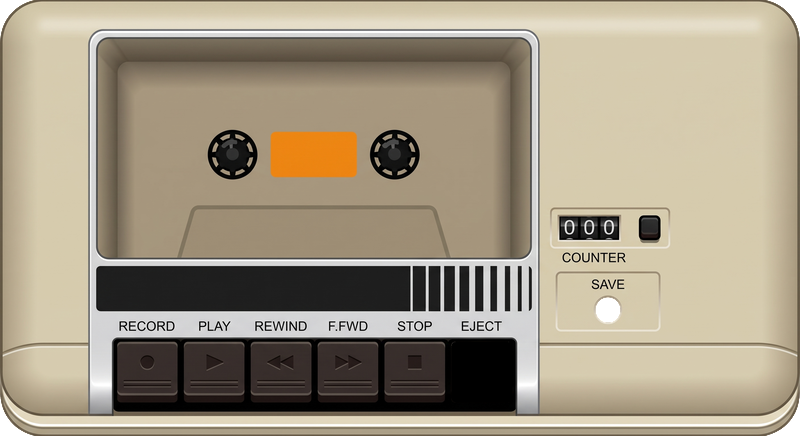
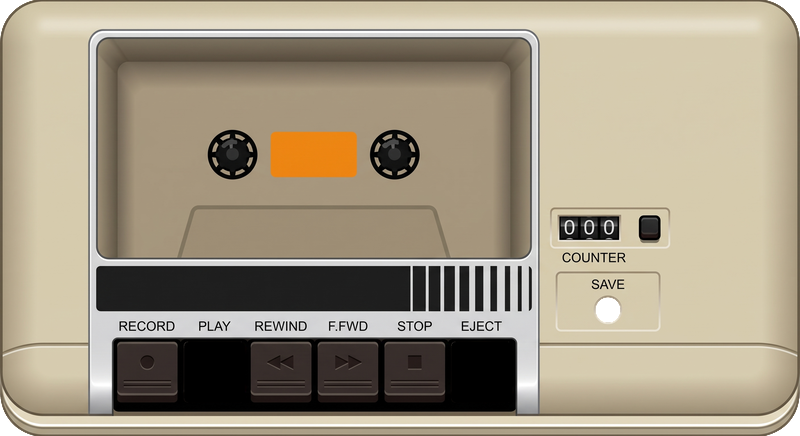
C64 corner Phase 4: the PLAY key goes down before the tape runs
The art's own second keycap (PLAY) is cut out as datasette-play.png and
pressed 240 ms (playLeadMs) before the hubs and counter start; it comes
back up on stop and eject. verify-c64 checks the key's up and down states.

Changed region(s): [[0.2188, 0.7752, 0.3125, 0.9243]]

diff --git a/Game/C64/driveinsert.js b/Game/C64/driveinsert.js
@@ -183,7 +183,8 @@
          the bay, the lid closes, the key comes back up.
        Eject (ends game): the lid lifts, the tape leaves DOWNWARD, the lid closes.
          A disk inserted over a tape plays this first (his rulings, 2026-10-04).
-       While a tape LOAD runs (emu.js says so: cat:tapemotor), the hubs turn
+       While a tape LOAD runs (emu.js says so: cat:tapemotor), PLAY goes down
+         (playLeadMs before anything turns) and stays down; the hubs turn
          (the cassette's white toothed hubs, and the black spindles seen through
          them) and the counter's three wheels count up. It is TIME-BASED: the
          core tells JS nothing about the tape itself (measured 2026-10-04). It
@@ -205,7 +206,9 @@
       reset: [0.79865, 0.49414, 0.82564, 0.55078],
       hingeY: 0.09505
     },
-    timing: { keyMs: 140, lidOpenMs: 420, riseMs: 460, lowerMs: 400, lidCloseMs: 360, gapMs: 90, resetPressMs: 140 },
+    timing: { keyMs: 140, lidOpenMs: 420, riseMs: 460, lowerMs: 400, lidCloseMs: 360, gapMs: 90, resetPressMs: 140,
+              /* 🆕 PLAY goes down this long BEFORE the counter and the hubs start */
+              playLeadMs: 240 },
     keyTravel: 0.014,          /* the EJECT key goes down this much of the box's height */
     lidDeg: 45,
     hubTurnMs: 1600,           /* one turn of the hubs while a load runs */
@@ -247,7 +250,8 @@
     var box = el("datasette"), cass = el("datasette-tape"), label = el("datasette-label");
     var wheels = box ? box.querySelectorAll(".datasette__wheel-strip") : [];
     var LABEL_PX = { max: 13, min: 5 };
-    var st = { busy: false, motor: false, count: 0, trace: [], lid: "closed", key: false, skip: null };
+    var st = { busy: false, motor: false, play: false, count: 0, trace: [], lid: "closed", key: false, skip: null };
+    var playTimer = 0;
     var T = DATASETTE.timing;
     var wait = function (msv) {
       return new Promise(function (res) {
@@ -374,13 +378,24 @@
       paintCounter();
       raf = requestAnimationFrame(tick);
     }
+    /* 🆕 PLAY: down first, then (playLeadMs later) the hubs and the counter; up
+       again the moment the load stops, or when Eject lifts the lid */
+    function playKey(on) { st.play = on; box.classList.toggle("is-play", on); }
     function motor(on) {
       on = !!on && !!box && !cass.hidden;
       if (on === st.motor) return;
       st.motor = on;
-      box.classList.toggle("is-spinning", on);
-      if (on) { last = 0; if (!raf) raf = requestAnimationFrame(tick); }
-      else {
+      clearTimeout(playTimer);
+      if (on) {
+        playKey(true);
+        playTimer = setTimeout(function () {
+          if (!st.motor) return;
+          box.classList.add("is-spinning");
+          last = 0; if (!raf) raf = requestAnimationFrame(tick);
+        }, REDUCED ? 0 : T.playLeadMs);
+      } else {
+        box.classList.remove("is-spinning");
+        playKey(false);
         /* the wheels come to rest on a whole number, as real ones do */
         st.count = Math.floor(st.count) % 1000;
         paintCounter();
@@ -408,8 +423,8 @@
          🚫 Nothing in the hub calls it. */
       rigCount: function (n) { st.count = (Number(n) || 0) % 1000; paintCounter(); },
       state: function () {
-        return { tape: !!(cass && !cass.hidden), name: label ? label.textContent : "", lid: st.lid, key: st.key, busy: st.busy,
-                 spinning: st.motor, count: Math.floor(st.count) % 1000, shown: box ? box.dataset.count : "", trace: st.trace.slice() };
+        return { tape: !!(cass && !cass.hidden), name: label ? label.textContent : "", lid: st.lid, key: st.key, play: st.play, busy: st.busy,
+                 spinning: st.motor && box.classList.contains("is-spinning"), count: Math.floor(st.count) % 1000, shown: box ? box.dataset.count : "", trace: st.trace.slice() };
       }
     };
   })();

diff --git a/Game/C64/index.html b/Game/C64/index.html
@@ -352,7 +352,8 @@
   <div id="datasette-bay">
     <!-- 🆕 2026-10-04 — THE DATASETTE (his rulings, Phase 4). Layers, bottom up:
          the unlit SAVE lamp (seen through BASE's cut hole), BASE (lid removed),
-         the EJECT key (it presses down on Insert Tape), the two black spindles,
+         the EJECT key (it presses down on Insert Tape) and the PLAY key (down for
+         the whole of a tape load), the two black spindles,
          the cassette (only while a tape is in: its white toothed hubs turn with
          the spindles during a load, and the hub prints the game's name on its
          blank label), the counter's three wheels and its reset button, and the
@@ -362,7 +363,8 @@
     <div class="datasette" id="datasette" data-count="000">
       <span class="datasette__lamp" aria-hidden="true"></span>
       <img class="datasette__base" src="datasette/datasette-base.png" alt="">
-      <img class="datasette__key" src="datasette/datasette-eject.png" alt="">
+      <img class="datasette__key datasette__key--eject" src="datasette/datasette-eject.png" alt="">
+      <img class="datasette__key datasette__key--play" src="datasette/datasette-play.png" alt="">
       <img class="datasette__spindle datasette__spindle--0" src="datasette/datasette-spindle.png" alt="">
       <img class="datasette__spindle datasette__spindle--1" src="datasette/datasette-spindle.png" alt="">
       <div class="datasette__tape" id="datasette-tape" hidden>

diff --git a/Game/C64/cat.css b/Game/C64/cat.css
@@ -857,9 +857,11 @@ html.cat-link #cat { visibility: hidden; }
   background: radial-gradient(circle at 40% 35%, #6b2a22, #3a120d 60%, #220806);
 }
 .datasette__base { z-index: 1; }
-/* the EJECT key goes down a few pixels on Insert Tape */
+/* the EJECT key goes down a few pixels on Insert Tape; PLAY, the same press,
+   stays down for the whole of a tape load */
 .datasette__key { z-index: 2; transition: transform var(--ds-key-ms) ease; }
-.datasette.is-key .datasette__key { transform: translateY(var(--ds-key-travel)); }
+.datasette.is-key .datasette__key--eject,
+.datasette.is-play .datasette__key--play { transform: translateY(var(--ds-key-travel)); }
 /* the black spindles, seen through the cassette's hub holes */
 .datasette__spindle {
   z-index: 2;

diff --git a/Documents/Asset Packs/Datasette/build.py b/Documents/Asset Packs/Datasette/build.py
@@ -92,11 +92,17 @@ alpha_b = np.where(bg | lamp, 0.0, 1.0)
 # 🆕 Step 2 — THE EJECT KEY is its own sprite (it presses down a few pixels on
 # Insert Tape), and BASE gets the key well's black where the key was, so the
 # moved key never shows a doubled edge. Same canvas as BASE.
+# 🆕 Step 3 — the PLAY key the same way (the art already has it: the second keycap,
+# ▶ on it, "PLAY" printed on the silver ABOVE it, which stays on BASE). It goes down
+# when a load starts and stays down for the whole load.
 EJECT = (1589, 1204, 1802, 1417, 14)
-key = rounded_rect(B.shape[:2], *EJECT)
-save_scaled(rgba(B, np.where(key, 1.0, 0.0)), (W_OUT, H_OUT), "datasette-eject.png")
+PLAY = (648, 1204, 861, 1417, 14)
 well = B[1425:1440, 1600:1790].reshape(-1, 3).mean(axis=0)     # the black bar under the keys
-B_base = np.where(key[..., None], well, B)
+B_base = B.copy()
+for box_, name_ in ((EJECT, "datasette-eject.png"), (PLAY, "datasette-play.png")):
+    key = rounded_rect(B.shape[:2], *box_)
+    save_scaled(rgba(B, np.where(key, 1.0, 0.0)), (W_OUT, H_OUT), name_)
+    B_base = np.where(key[..., None], well, B_base)
 save_scaled(rgba(B_base, alpha_b), (W_OUT, H_OUT), "datasette-base.png")
 # 🆕 Step 2 — the BLACK SPINDLE, a round sprite that turns while a tape loads
 # (seen through the cassette's hub holes). Cut from the left one.
